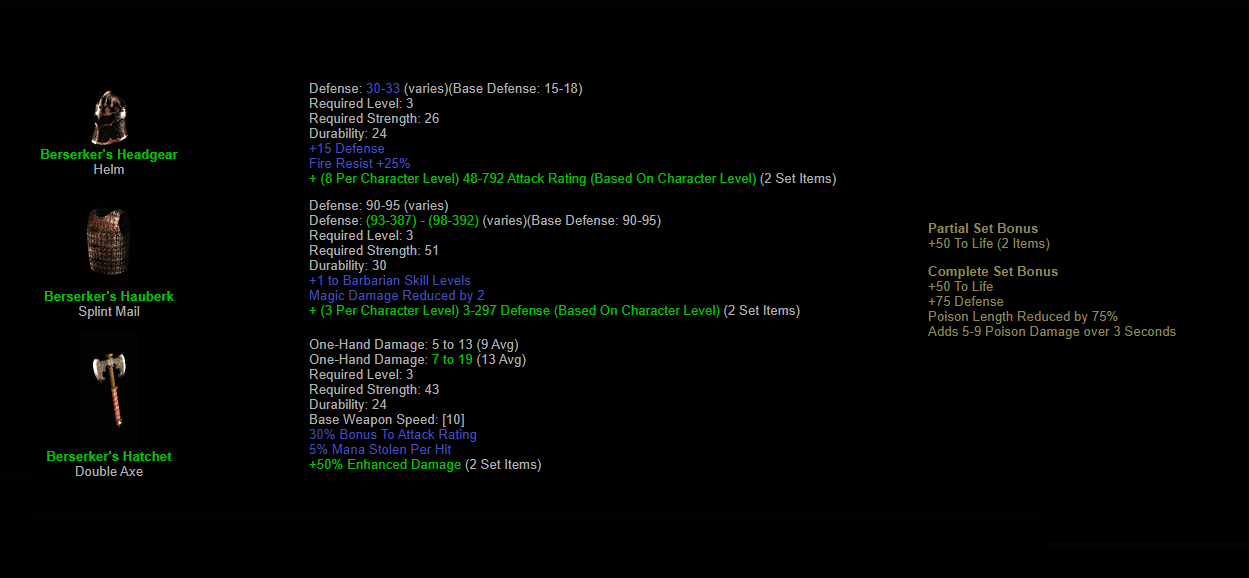
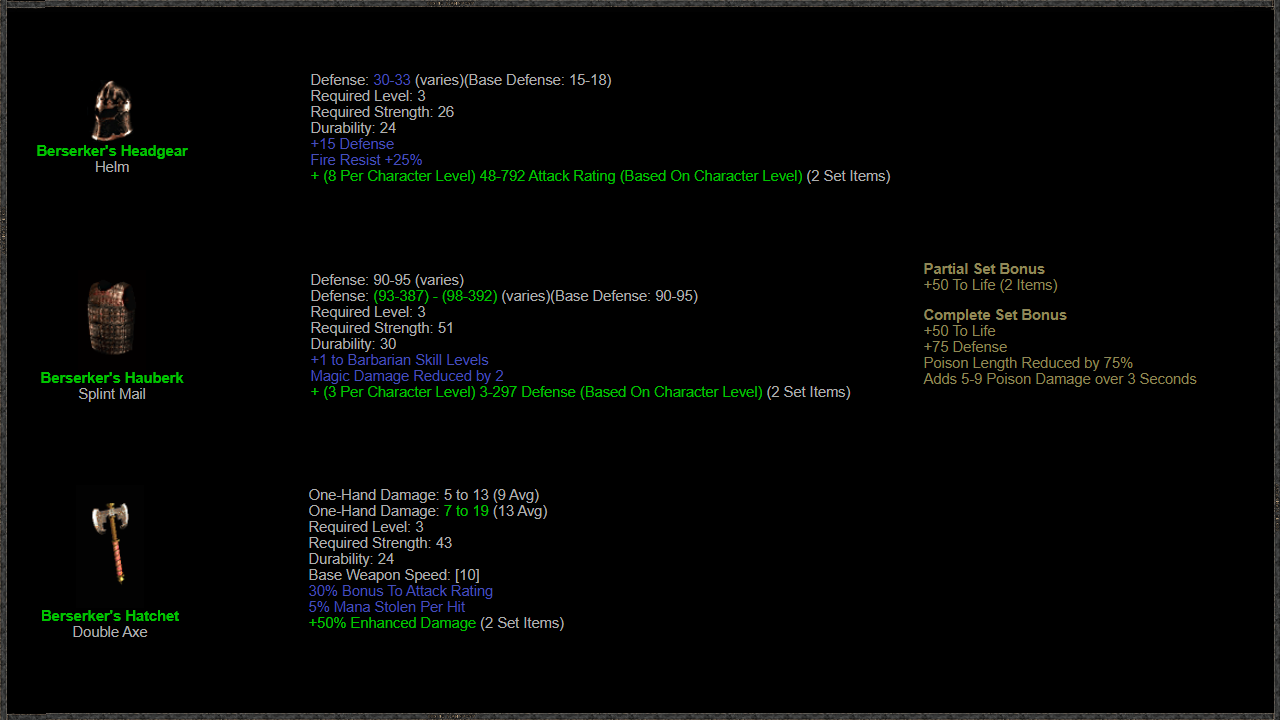
upgrades

diff --git a/Pages/BerserkersPage.xaml b/Pages/BerserkersPage.xaml
@@ -13,7 +13,7 @@
             <ImageBrush ImageSource="/Images/Berserkers_Arsenal.png"/>
         </Grid.Background>
         <TextBlock HorizontalAlignment="Left" 
-            Margin="864,10,0,0" 
+            Margin="876,10,0,0" 
             TextWrapping="Wrap"
             VerticalAlignment="Top"
             FontFamily="MV Boli"
@@ -38,23 +38,31 @@
                 <ImageBrush ImageSource="/Images/MenuBtn.png"/>
             </Button.Background>
         </Button>
-        <WrapPanel Margin="0,0,421,0">
+        <WrapPanel Margin="10,64,386,10" RenderTransformOrigin="0.5,0.5">
+            <WrapPanel.RenderTransform>
+                <TransformGroup>
+                    <ScaleTransform/>
+                    <SkewTransform AngleY="0.505"/>
+                    <RotateTransform/>
+                    <TranslateTransform Y="3.741"/>
+                </TransformGroup>
+            </WrapPanel.RenderTransform>
             <WrapPanel x:Name="BerserkHead_Pic" 
-                Background="#99000000" Width="890" Height="230">
+                Background="#99000000" Width="890" Height="150">
                 <CheckBox x:Name="Berserk_s_Headgear" 
-                    Margin="40,100,0,0"
+                    Margin="40,10,0,0"
                     Content="" Checked="Berserk_s_Headgear_Checked" Unchecked="Berserk_s_Headgear_Unchecked" ToolTip="Andariel (Normal) 1:76"/>
             </WrapPanel>
             <WrapPanel x:Name="BerserkArmor_Pic" 
-                Background="#99000000" Height="170" Width="891">
+                Background="#99000000" Height="200" Width="891">
                 <CheckBox x:Name="Berserk_s_Haubark"
-                    Margin="40,20,0,0"
+                    Margin="40,50,0,0"
                     Content="" Checked="Berserk_s_Haubark_Checked" Unchecked="Berserk_s_Haubark_Unchecked" ToolTip="Mephisto (Normal) 1:84"/>
             </WrapPanel>
             <WrapPanel x:Name="BerserkAxe_Pic"
-                Background="#99000000" Height="200" Width="891">
+                Background="#99000000" Height="250" Width="891">
                 <CheckBox x:Name="Berserk_s_Hatchet"
-                    Margin="40,30,0,0" 
+                    Margin="40,50,0,0" 
                     Content="" Checked="Berserk_s_Hatchet_Checked" Unchecked="Berserk_s_Hatchet_Unchecked" ToolTip="Mephisto (Normal) 1:51"/>
             </WrapPanel>
         </WrapPanel>

diff --git a/Pages/CathansPage.xaml b/Pages/CathansPage.xaml
@@ -38,27 +38,27 @@
                 <ImageBrush ImageSource="/Images/MenuBtn.png"/>
             </Button.Background>
         </Button>
-        <WrapPanel Margin="0,0,384,10">
+        <WrapPanel Margin="10,10,384,10">
             <WrapPanel x:Name="CathansHead_pic" 
-                Background="#99000000" Width="860" Height="170">
+                Background="#99000000" Width="860" Height="150">
                 <CheckBox x:Name="Cathan_s_Visage" 
                     Margin="30,20,0,0"
                     Content="" Checked="Cathan_s_Visage_Checked" Unchecked="Cathan_s_Visage_Unchecked" ToolTip="Mephisto (Normal) 1:84"/>
             </WrapPanel>
             <WrapPanel x:Name="CathansMesh_Pic" 
-                Background="#99000000" Width="860" Height="140">
+                Background="#99000000" Width="860" Height="150">
                 <CheckBox x:Name="Cathan_s_Mesh"
                     Margin="30,10,0,0"
                     Content="" Checked="Cathan_s_Mesh_Checked" Unchecked="Cathan_s_Mesh_Unchecked" ToolTip="Mephisto (Normal) 1:51"/>
             </WrapPanel>
             <WrapPanel x:Name="CathansRule_Pic"
-                Background="#99000000" Width="860" Height="150">
+                Background="#99000000" Width="860" Height="170">
                 <CheckBox x:Name="Cathan_s_Rule"
                     Margin="30,10,0,0" 
                     Content="" Checked="Cathan_s_Rule_Checked" Unchecked="Cathan_s_Rule_Unchecked" ToolTip="Mephisto (Normal) 1:160"/>
             </WrapPanel>
             <WrapPanel x:Name="CathansSigil_Pic"
-                Background="#99000000" Width="860" Height="95">
+                Background="#99000000" Width="860" Height="105">
                 <CheckBox x:Name="Cathan_s_Sigil"
                     Margin="20,10,0,0"
                     Content="" Checked="Cathan_s_Sigil_Checked" Unchecked="Cathan_s_Sigil_Unchecked" ToolTip="Duriel (Normal) 1:580"/>

diff --git a/Pages/Artic_Gear_Page1.xaml b/Pages/Artic_Gear_Page1.xaml
@@ -41,27 +41,27 @@
                 <ImageBrush ImageSource="/Images/MenuBtn.png"/>
             </Button.Background>
         </Button>
-        <WrapPanel Margin="0,0,318,0">
+        <WrapPanel Margin="10,10,380,10">
             <WrapPanel x:Name="Pic1" 
-                Background="#99000000" Width="950" Height="180">
+                Background="#99000000" Width="890" Height="180">
                 <CheckBox x:Name="Arctic_Furs" 
                     Margin="30,20,0,0"
                     Content="" ToolTip="Blood Raven (Normal) 1:291" Checked="Arctic_Furs_Checked" Unchecked="Arctic_Furs_Unchecked"/>
             </WrapPanel>
             <WrapPanel x:Name="Pic2" 
-                Background="#99000000" Height="145" Width="950">
+                Background="#99000000" Height="145" Width="890">
                 <CheckBox x:Name="Arctic_Binding"
                     Margin="30,30,0,0"
                     Content="" ToolTip="Andariel (Normal) 1:51" Checked="Arctic_Binding_Checked" Unchecked="Arctic_Binding_Unchecked"/>
             </WrapPanel>
             <WrapPanel x:Name="Pic3"
-                Background="#99000000" Height="155" Width="950">
+                Background="#99000000" Height="155" Width="890">
                 <CheckBox x:Name="Arctic_Mitts"
                     Margin="30,30,0,0" 
                     Content="" ToolTip="Mephisto (Normal) 1:169" Checked="Arctic_Mitts_Checked" Unchecked="Arctic_Mitts_Unchecked"/>
             </WrapPanel>
             <WrapPanel x:Name="Pic4"
-                Background="#99000000" Height="210" Width="950">
+                Background="#99000000" Height="210" Width="890">
                 <CheckBox x:Name="Arctic_Horn"
                     Margin="20,30,0,0"
                     Content="" ToolTip="Diablo (Normal) 1:79" Checked="Arctic_Horn_Checked" Unchecked="Arctic_Horn_Unchecked"/>

diff --git a/Pages/BulKatosPage.xaml b/Pages/BulKatosPage.xaml
@@ -38,17 +38,17 @@
                 <ImageBrush ImageSource="/Images/MenuBtn.png"/>
             </Button.Background>
         </Button>
-        <WrapPanel Margin="0,0,550,0">
+        <WrapPanel Margin="10,30,550,82">
             <WrapPanel x:Name="Pic1" 
-                Background="#99000000" Width="700" Height="365">
+                Background="#99000000" Width="700" Height="270">
                 <CheckBox x:Name="Bul_Kathos__Sacred_Charge" 
-                    Margin="30,180,0,0"
+                    Margin="30,50,0,0"
                     Content="" ToolTip="Baal (Hell) 1:5826" Checked="Bul_Kathos__Sacred_Charge_Checked" Unchecked="Bul_Kathos__Sacred_Charge_Unchecked"/>
             </WrapPanel>
             <WrapPanel x:Name="Pic2" 
                 Background="#99000000" Height="280" Width="700">
                 <CheckBox x:Name="Bul_Kathos__Tribal_Guardian"
-                    Margin="30,40,0,0"
+                    Margin="30,80,0,0"
                     Content="" ToolTip="Baal (Hell) 1:5826" Checked="Bul_Kathos__Tribal_Guardian_Checked" Unchecked="Bul_Kathos__Tribal_Guardian_Unchecked"/>
             </WrapPanel>
         </WrapPanel>
